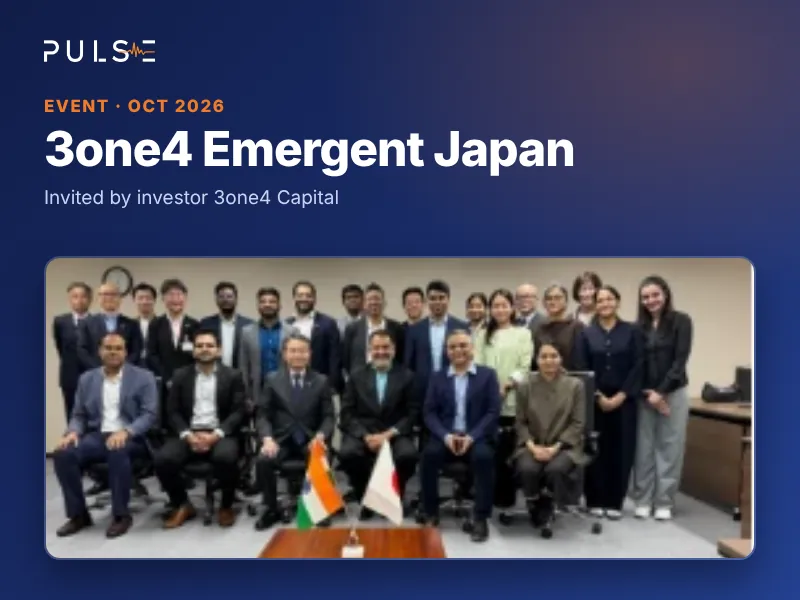
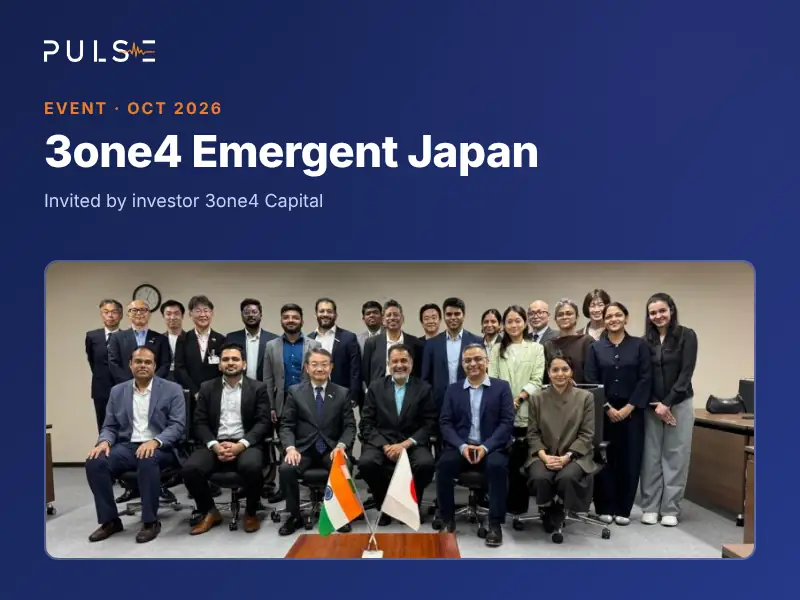
Japan event article: replace soft crops with the original Emergent Japan photos
- 5 photos as WebP (each under 30 KB): hero group photo, audience, presentation pair, group after session
- Japanese slide translated in the caption
- Articles-tab card rebuilt with the sharp photo; sitemap image entries added

Claude-Session: https://claude.ai/code/session_01TkCKB5i5Gk2agQt4wujzkq

diff --git a/blog-pulse-3one4-emergent-japan-2026.html b/blog-pulse-3one4-emergent-japan-2026.html
@@ -216,21 +216,32 @@ j=d.createElement(s),dl=l!='dataLayer'?'&l='+l:'';j.async=true;j.src=
 
 
   <figure style="margin:24px 0;">
-    <img src="/image/Events/pulse-3one4-emergent-japan-2026.webp" alt="Founders, investors and Japanese industry leaders at 3one4 Emergent Japan, with Indian and Japanese flags" width="270" height="212" loading="lazy" decoding="async" style="width:100%;max-width:540px;height:auto;border-radius:12px;display:block;">
-    <figcaption style="font-size:13.5px;color:#6b7280;margin-top:8px;">Founders, investors and hosts at 3one4 Emergent Japan, October 2026. Photo: Pulse.</figcaption>
+    <img src="/image/Events/pulse-3one4-emergent-japan-2026.webp" alt="Founders, investors and Japanese hosts at 3one4 Emergent Japan, seated behind Indian and Japanese flags" width="640" height="480" loading="lazy" decoding="async" style="width:100%;max-width:100%;height:auto;border-radius:12px;display:block;">
+    <figcaption style="font-size:13.5px;color:#6b7280;margin-top:8px;">Founders, investors and Japanese hosts at 3one4 Emergent Japan, October 2026. Photo: Pulse.</figcaption>
   </figure>
 
   <h2 id="what-is-3one4-emergent">What Is 3one4 Emergent?</h2>
   <p>Emergent is 3one4 Capital's programme for connecting its portfolio founders with leading institutions, investors and markets abroad. It is a working trip of meetings and presentations rather than a conference where founders sit and listen. Earlier editions were held in Singapore, Japan and Mumbai.</p>
   <p>The Japan editions show what the programme does. In 2024, founders took part in 118 meetings with 53 Japanese corporations, investors and fund partners over four days, with a showcase day at Mizuho Bank's headquarters in Tokyo. In 2025, Emergent Tokyo held more than 120 meetings across 53 institutions, again hosted at Mizuho Bank.</p>
+  <figure style="margin:24px 0;">
+    <img src="/image/Events/pulse-emergent-japan-audience.webp" alt="A full room of Japanese corporate and investor delegates at 3one4 Emergent Japan" width="560" height="420" loading="lazy" decoding="async" style="width:100%;max-width:100%;height:auto;border-radius:12px;display:block;">
+    <figcaption style="font-size:13.5px;color:#6b7280;margin-top:8px;">A full room of Japanese companies, banks and investors at the Emergent showcase. Photo: Pulse.</figcaption>
+  </figure>
 
   <h2 id="pulse-at-emergent-japan">Pulse at Emergent Japan</h2>
   <p>Pulse co-founder <strong>Anshul Sharma</strong> represented the company. He presented the Pulse story to the room and joined founders, investors and Japanese industry leaders for a day of ideas and introductions.</p>
   <figure style="margin:24px 0;">
-    <img src="/image/Events/pulse-emergent-japan-presentation.webp" alt="Pulse presentation at 3one4 Emergent Japan" width="140" height="146" loading="lazy" decoding="async" style="width:100%;max-width:280px;height:auto;border-radius:12px;display:block;">
-    <figcaption style="font-size:13.5px;color:#6b7280;margin-top:8px;">The Pulse presentation at Emergent Japan. Photo: Pulse.</figcaption>
+    <div style="display:grid;grid-template-columns:1fr 1fr;gap:12px;">
+      <img src="/image/Events/pulse-emergent-japan-presentation.webp" alt="Pulse presenting at 3one4 Emergent Japan, with the Pulse slide shown in Japanese" width="576" height="768" loading="lazy" decoding="async" style="width:100%;height:auto;border-radius:12px;display:block;">
+      <img src="/image/Events/pulse-emergent-japan-podium.webp" alt="Pulse speaking at the podium at 3one4 Emergent Japan" width="672" height="896" loading="lazy" decoding="async" style="width:100%;height:auto;border-radius:12px;display:block;">
+    </div>
+    <figcaption style="font-size:13.5px;color:#6b7280;margin-top:8px;">Presenting Pulse in Tokyo. The slide, in Japanese, reads: "World-class medical equipment. India's first cross-category, asset-light medical equipment brand. Designed and developed in India, made for the world." Photos: Pulse.</figcaption>
   </figure>
   <p>As Pulse wrote afterwards: "Meaningful innovation happens when ambitious ideas meet the right people, perspectives, and opportunities."</p>
+  <figure style="margin:24px 0;">
+    <img src="/image/Events/pulse-emergent-japan-group-photo.webp" alt="Emergent Japan founders with Japanese industry leaders after the session" width="720" height="540" loading="lazy" decoding="async" style="width:100%;max-width:100%;height:auto;border-radius:12px;display:block;">
+    <figcaption style="font-size:13.5px;color:#6b7280;margin-top:8px;">Founders and Japanese industry leaders after the session. Photo: Pulse.</figcaption>
+  </figure>
 
   <div class="bx-mid"><p><strong>Need a price for your hospital or clinic?</strong>Get a written quote, brochure or demo from the Pulse team.</p><div class="bx-btns"><a class="q" href="/request-a-quote.html">Get a Quote &rarr;</a><a class="w" href="https://wa.me/919071101108?text=Hi%20Pulse%2C%20I%20read%20your%20guide%3A%20Pulse%20in%20Japan%3A%20Building%20Bridges%20at%203one4%20Emergent%20Japan" target="_blank" rel="noopener noreferrer nofollow">WhatsApp</a></div></div>
 
